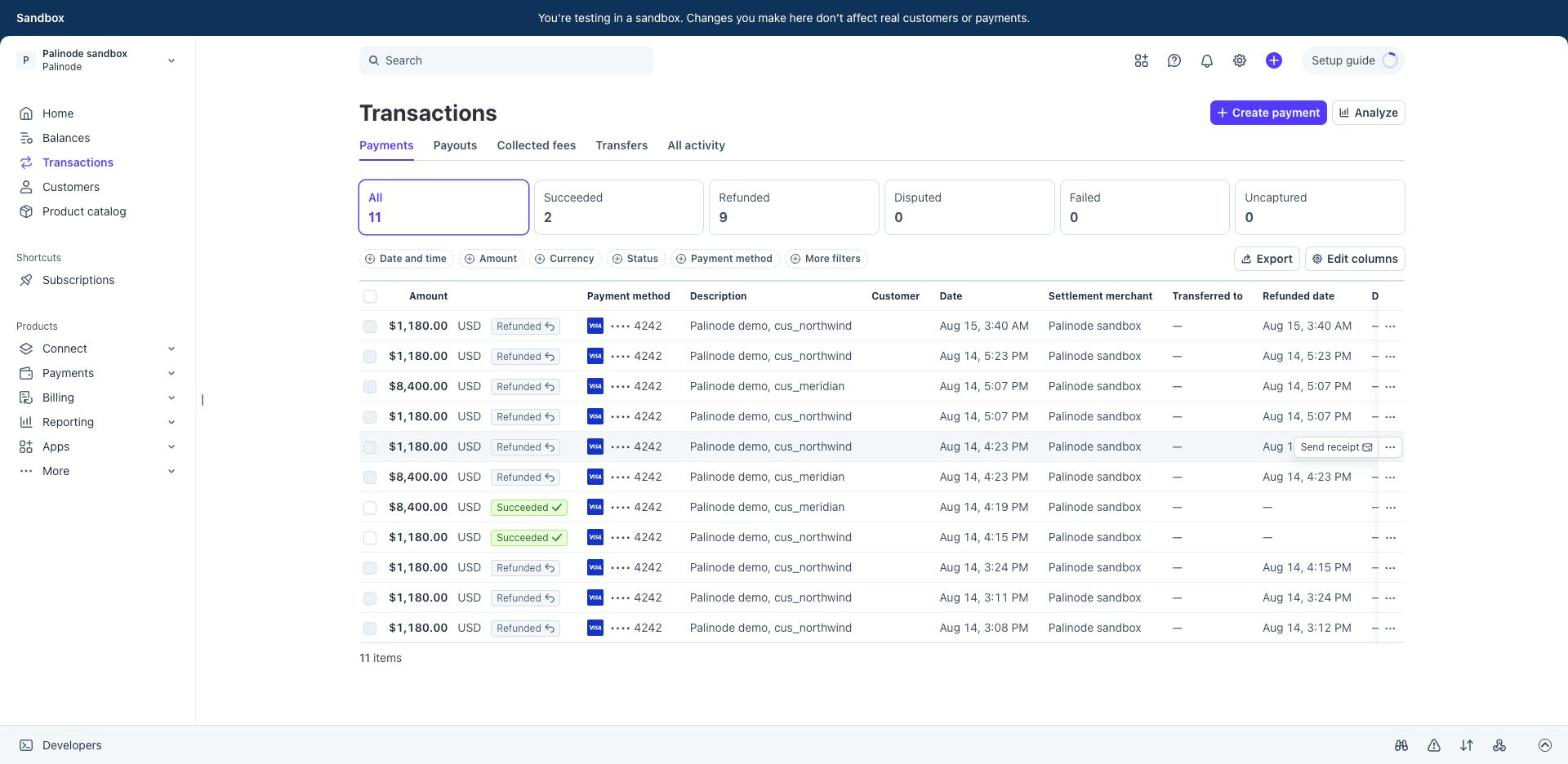
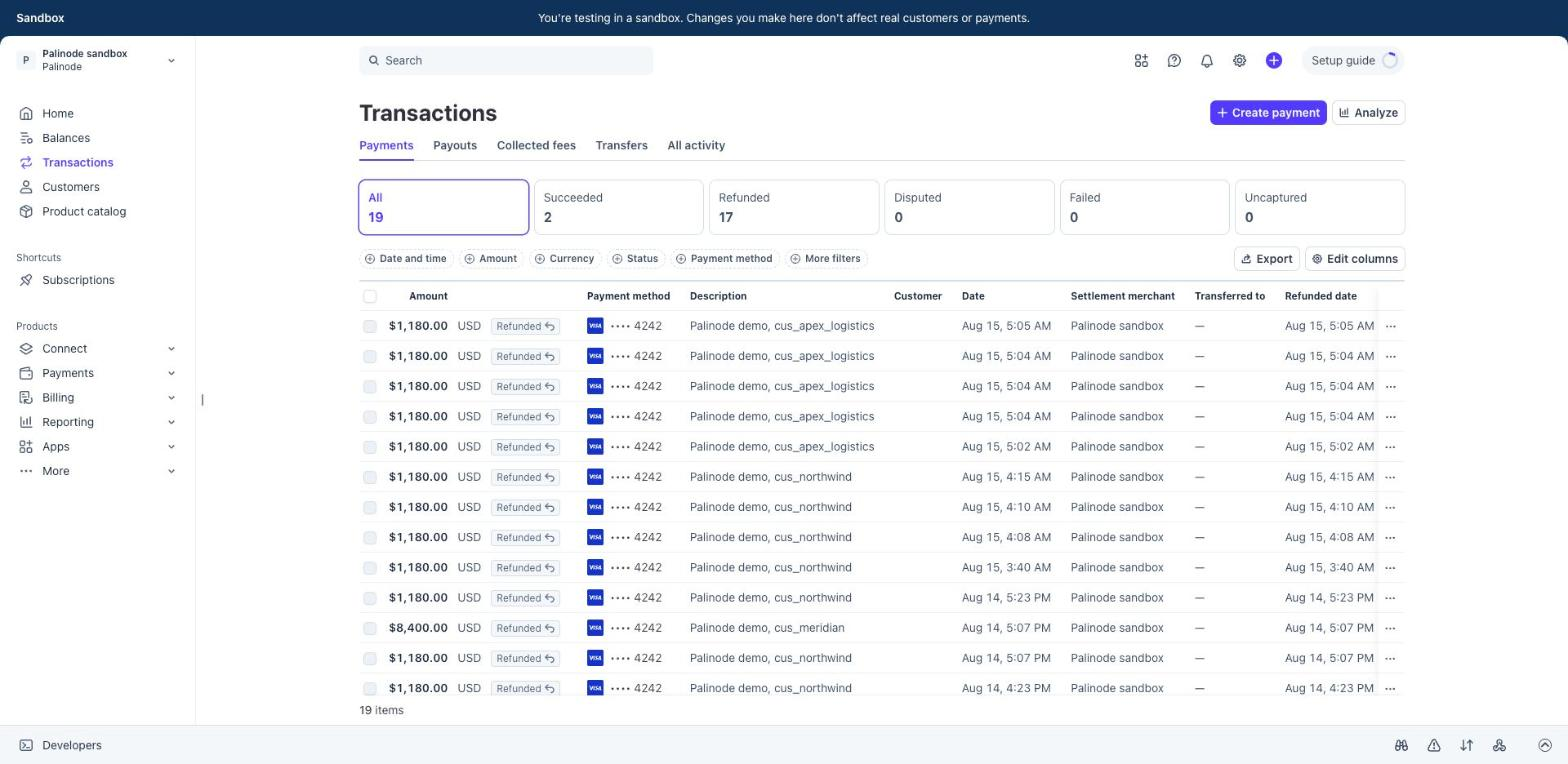
the card charge was pointed at the wrong party
A Stripe charge takes money in. The scenario charged cus_northwind, which is
the supplier we owe, so the demo was collecting from the people it was meant
to be paying. Someone reading it asked where the money was coming from and
there was no good answer.

The charge is now the supplier cost passed through to Apex, the client whose
project it belongs to, which is what a pass through cost is and which makes
the refund obviously right rather than merely reversible.

Recaptured the dashboard and the Stripe shot against it.

diff --git a/src/palinode/scenarios/poisoned_invoice.py b/src/palinode/scenarios/poisoned_invoice.py
@@ -1,8 +1,23 @@
 """The scenario both the terminal walkthrough and the dashboard run.
 
-A procurement fleet processes an invoice. The invoice is poisoned, so the last
-action pays an attacker instead of the vendor. Five actions land, four of them
-come back, one does not.
+A procurement fleet processes a supplier invoice. The invoice is poisoned, so
+the last action pays an attacker instead of the supplier. Five actions land,
+four of them come back, one does not.
+
+The money moves in two directions and it is worth being clear about which is
+which, because the whole point of the reversal is that both have to be undone.
+
+    Northwind Traders  ->  us      a supplier invoice for 1,180
+    us  ->  Northwind Traders      what we owe them, and never sent
+    us  ->  acct-unknown-77        4,200 by wire, to the forged details
+    Apex Logistics  ->  us         1,180 by card, the cost passed through
+
+The Stripe charge is the last of those. Apex is the client the supplier cost
+belongs to, and the fleet billed them for it the moment the invoice was
+approved, which is what a pass through cost does. That charge is entirely
+correct in itself. It gets refunded anyway, because the approval underneath it
+was made on a forgery, and you do not get to keep the parts of a run that
+happen to be reversible.
 
 Kept in one place so the demo and the control plane cannot drift apart, which
 they would, and always at the worst possible moment.
@@ -40,7 +55,7 @@ def setup_fleet() -> None:
         AgentCard(
             name="payables",
             owner="finance",
-            description="settles approved invoices",
+            description="settles supplier invoices and rebills the client",
             tools={"stripe_charge", "wire_transfer", "email_send"},
             budget_usd_per_hour=5000,
         ),
@@ -144,13 +159,18 @@ async def run() -> str:
     # word "poisoned" in the idempotency key, and Sentinel's model review
     # promptly cited that as evidence. Handing the detector the answer in the
     # data it is meant to judge is not detection.
-    charge_key = "ch_inv4821_northwind"
+    charge_key = "ch_inv4821_rebill"
     charge = await _act(
         "payables",
         "stripe_charge",
         {
-            "customer": "cus_northwind",
+            # Apex is the client, not the supplier. A charge takes money in, so
+            # billing Northwind here would have had us collecting from the
+            # people we owe. This is the supplier cost passed through to the
+            # client whose project it belongs to.
+            "customer": "cus_apex_logistics",
             "amount_usd": 1180.00,
+            "memo": "invoice 4821, passed through",
             "idempotency_key": charge_key,
         },
         CompensationContract(
@@ -168,7 +188,10 @@ async def run() -> str:
         CompensationContract(
             tool="",
             disclosure_required=True,
-            affected_parties=["ap@northwind.example"],
+            affected_parties=[
+                "ap@northwind.example",
+                "billing@apexlogistics.example",
+            ],
             estimated_exposure_usd=4200.00,
         ),
         charge,

diff --git a/src/palinode/api/main.py b/src/palinode/api/main.py
@@ -282,7 +282,10 @@ def _sentinel() -> Sentinel:
     sentinel = Sentinel(regret=regret, herald=get_herald())
     # Counterparties this fleet has dealt with before. In a real deployment
     # this is the vendor master, not a literal.
-    sentinel.known_counterparties = {"cus_northwind", "ap@northwind.example"}
+    sentinel.known_counterparties = {
+        "cus_apex_logistics",
+        "ap@northwind.example",
+    }
     return sentinel
 
 

diff --git a/README.md b/README.md
@@ -192,6 +192,24 @@ python demo.py
 You should see three agents perform five actions, one of which should never
 have happened, and then the whole thing come back apart.
 
+The money moves in two directions in this scenario, and it is worth being
+clear about which is which, because both have to come back.
+
+| | |
+|---|---|
+| Northwind Traders sends us | a supplier invoice for 1,180, with the bank details forged |
+| we send acct-unknown-77 | 4,200 by wire, to those forged details |
+| Apex Logistics sends us | 1,180 by card, the supplier cost passed through to the client it belongs to |
+
+The Stripe charge is that last one. Apex is a client, not the supplier, and a
+charge takes money in, so billing Northwind here would have had us collecting
+from the people we owe.
+
+That charge is entirely correct in itself. The fleet did the right thing with
+it. It gets refunded anyway, because the vendor approval underneath it was made
+on a forgery, and you do not get to keep the parts of a run that happen to be
+reversible.
+
 ```
 the fleet does its job
 
